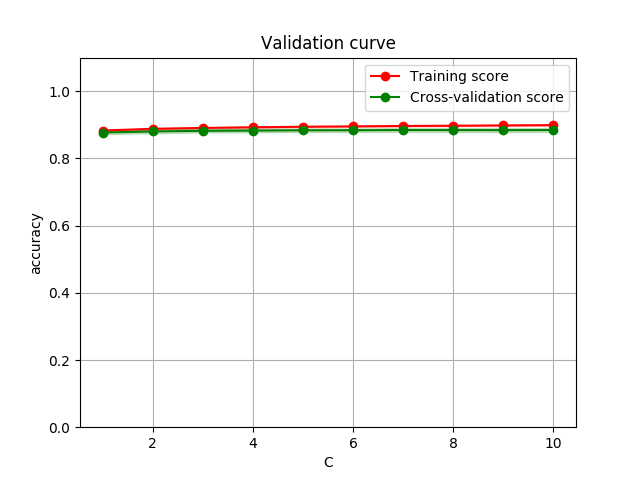
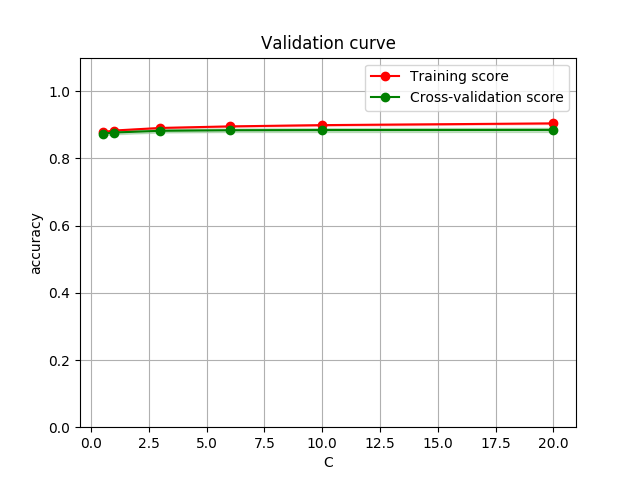
different x axis for validationcurve

diff --git a/tuning.py b/tuning.py
@@ -51,7 +51,7 @@ def plot_curve(curve_fxn, extra_curve_args, model, title, xlabel, ylabel, fname,
 X,y = get_train_steins()
 
 # plot validation curve
-param_range = [1, 2, 3, 4, 5, 6, 7, 8, 9, 10]
+param_range = [.5, 1, 3, 6, 10, 20]
 extra_args = {'param_range':param_range, 'param_name':'clf__C'}
 plot_curve(
     validation_curve, extra_args, SVC(), 
